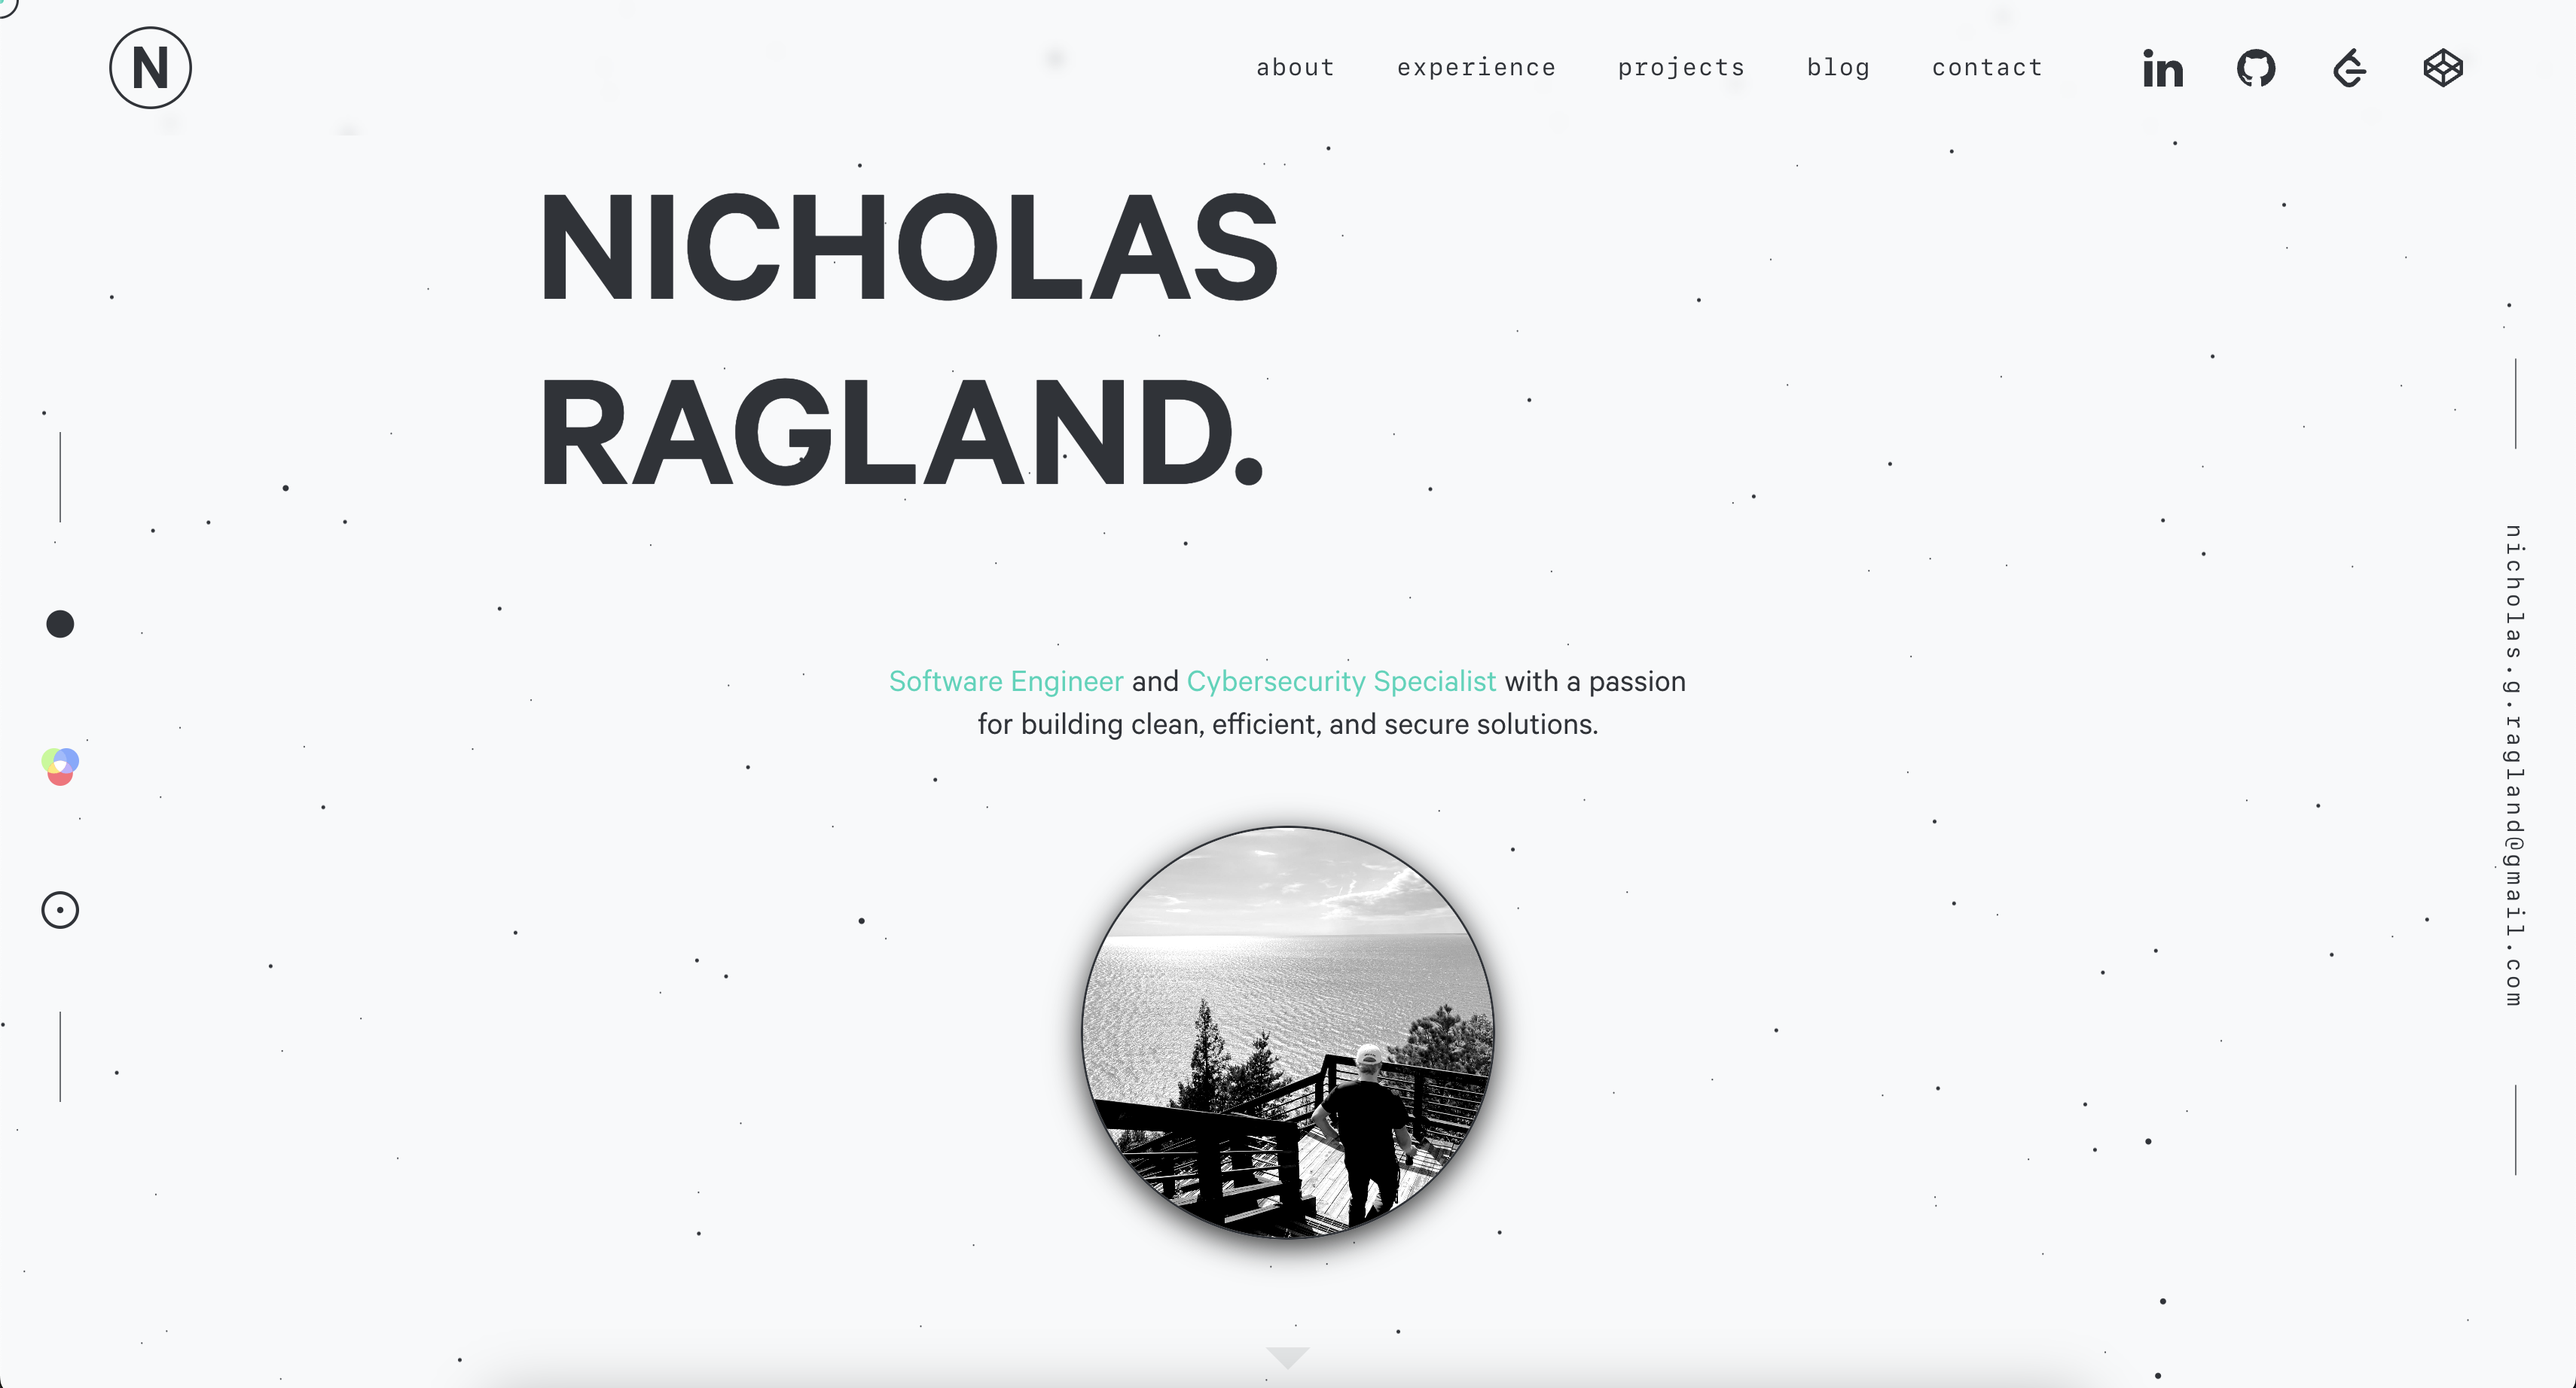
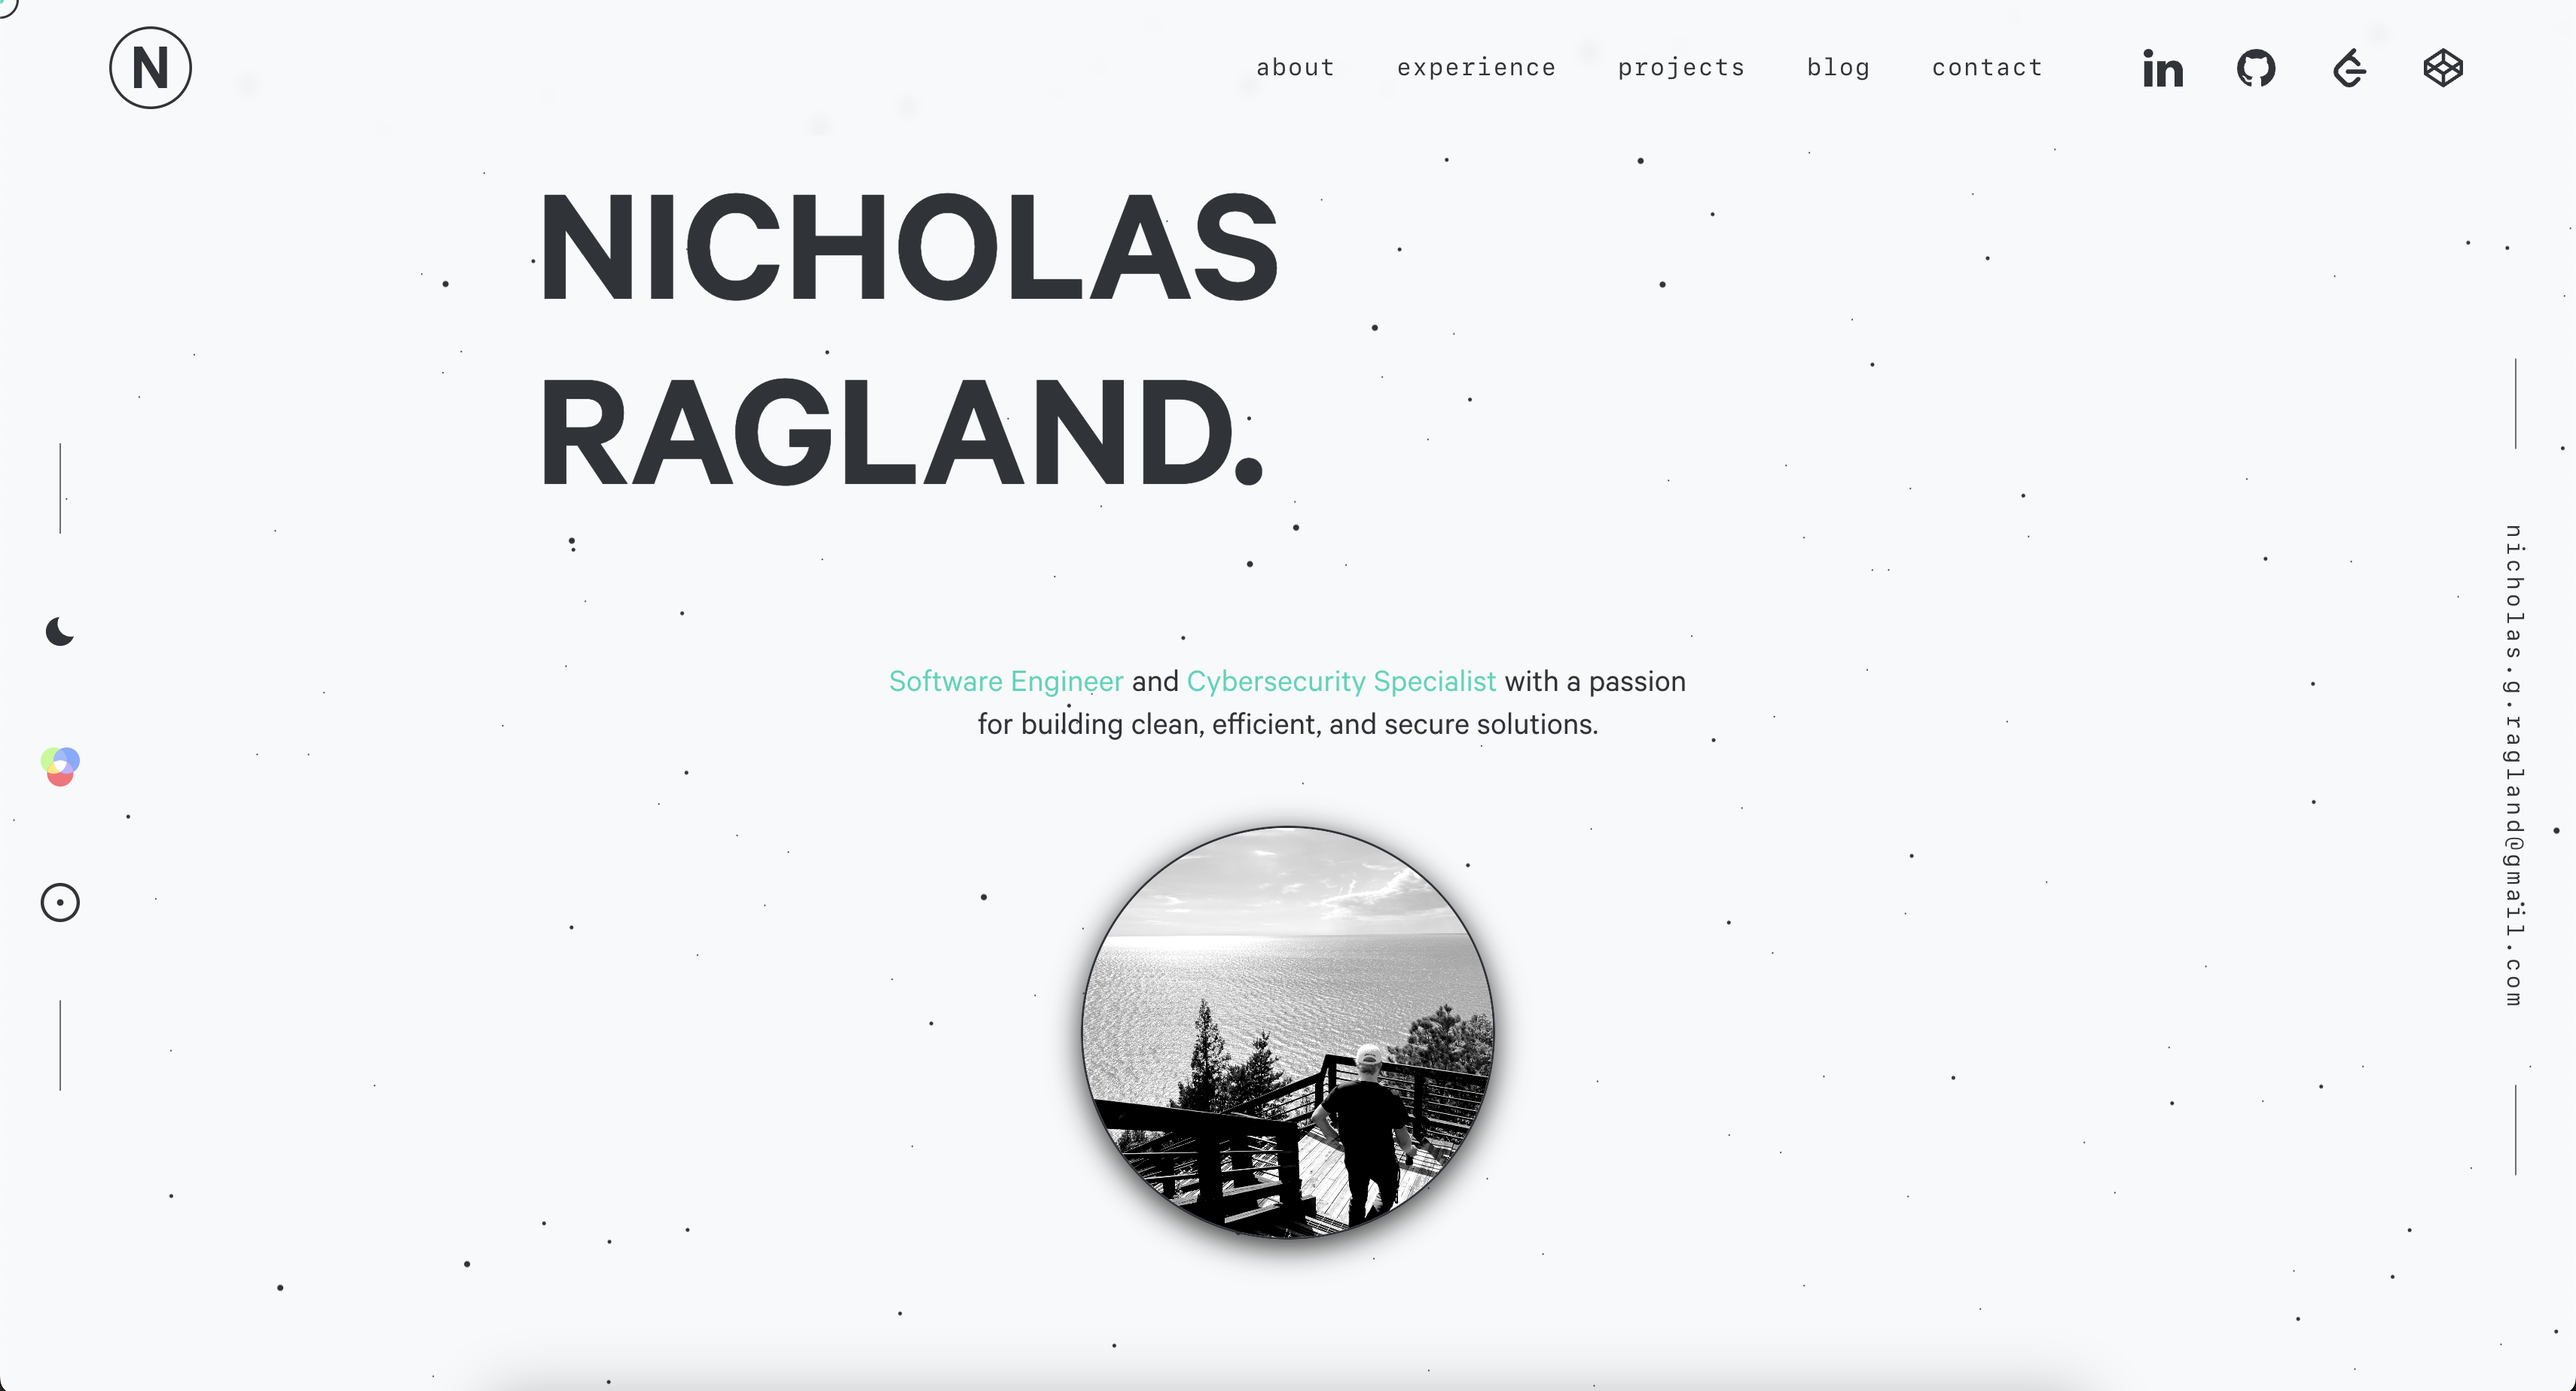
fixd darkmode toggle svg transform

diff --git a/src/components/options.js b/src/components/options.js
@@ -18,46 +18,41 @@ const fadeInLeft = keyframes`
   }
 `;
 
-const StyledOptionsList = styled.ul`
+const StyledOptionsContainer = styled.div`
   display: flex;
   flex-direction: column;
   align-items: center;
   margin: 0;
   padding: 0;
-  list-style: none;
   animation: ${fadeInLeft} 1s ease-out;
 
-  li {
-    margin: 10px 0;
+  button {
+    display: flex;
+    align-items: center;
+    justify-content: center;
+    width: 50px;
+    height: 50px;
+    margin: 20px 0;
+    background-color: transparent;
+    border: none;
+    color: var(--options-icon-color);
+    cursor: pointer;
+    transition:
+      color 0.3s,
+      transform 0.75s;
 
-    button {
-      position: relative;
-      z-index: 10;
-      padding: 12.5px;
-      background-color: transparent;
-      border: none;
-      color: var(--options-icon-color);
-      cursor: pointer;
+    svg {
+      width: 26px;
+      height: 26px;
+      transition:
+        transform 0.75s,
+        color 0.3s;
+    }
 
-      &:hover,
-      &:focus {
-        transform: translateY(-5px);
-        color: var(--options-icon-hover-color);
-      }
-
-      &:hover svg {
-        color: var(--green);
-      }
-
-      svg {
-        width: 50px;
-        height: 50px;
-        color: var(--options-icon-color);
-        transition:
-          fill 0.3s,
-          color 0.3s,
-          transform 0.75s;
-      }
+    &:hover,
+    &:focus {
+      transform: translateY(-5px);
+      color: var(--options-icon-hover-color);
     }
   }
 `;
@@ -81,35 +76,38 @@ const Options = ({ isHome, onToggleCursor }) => {
 
   return (
     <Side isHome={isHome} orientation="left">
-      <StyledOptionsList>
-        <li>
-          <button
-            type="button"
-            title="Toggle theme"
-            onClick={handleThemeToggle}
-            className={`theme-toggle ${isDarkMode ? '' : 'theme-toggle--toggled'}`}
-            aria-label="Toggle theme"
-          >
-            <Icon name="light" />
-          </button>
-        </li>
-        <li>
-          <button
-            type="button"
-            title="Toggle color wave effect"
-            onClick={handleColorToggle}
-            className={`color-toggle ${isColorMode ? 'color-toggle--active' : ''}`}
-            aria-label="Toggle color wave effect"
-          >
-            <Icon name="color" />
-          </button>
-        </li>
-        <li>
-          <button onClick={onToggleCursor} aria-label="Toggle Cursor">
-            <Icon name="cursor" />
-          </button>
-        </li>
-      </StyledOptionsList>
+      <StyledOptionsContainer>
+        {/* Theme */}
+        <button
+          type="button"
+          title="Toggle theme"
+          onClick={handleThemeToggle}
+          className={`theme-toggle ${isDarkMode ? '' : 'theme-toggle--toggled'}`}
+          aria-label="Toggle theme"
+        >
+          <Icon name="light" />
+        </button>
+
+        {/* Color Wave */}
+        <button
+          type="button"
+          title="Toggle color wave effect"
+          onClick={handleColorToggle}
+          className={`color-toggle ${isColorMode ? 'color-toggle--active' : ''}`}
+          aria-label="Toggle color wave effect"
+        >
+          <Icon name="color" />
+        </button>
+
+        {/* Cursor */}
+        <button
+          type="button"
+          onClick={onToggleCursor}
+          aria-label="Toggle Cursor"
+        >
+          <Icon name="cursor" />
+        </button>
+      </StyledOptionsContainer>
     </Side>
   );
 };

diff --git a/src/components/icons/light.js b/src/components/icons/light.js
@@ -1,4 +1,3 @@
-/* https://toggles.dev/expand */
 import React from 'react';
 
 const IconLight = (props) => (
@@ -8,23 +7,16 @@ const IconLight = (props) => (
     width="1em"
     height="1em"
     fill="currentColor"
-    class="theme-toggle__around"
+    class="theme-toggle__expand"
     viewBox="0 0 32 32"
     {...props}
   >
-    <clipPath id="theme-toggle__around__cutout">
-      <path d="M0 0h42v30a1 1 0 00-16 13H0Z" />
+    <clipPath id="theme-toggle__expand__cutout">
+      <path d="M0-11h25a1 1 0 0017 13v30H0Z" />
     </clipPath>
-    <g clip-path="url(#theme-toggle__around__cutout)">
+    <g clip-path="url(#theme-toggle__expand__cutout)">
       <circle cx="16" cy="16" r="8.4" />
-      <g>
-        <circle cx="16" cy="3.3" r="2.3" />
-        <circle cx="27" cy="9.7" r="2.3" />
-        <circle cx="27" cy="22.3" r="2.3" />
-        <circle cx="16" cy="28.7" r="2.3" />
-        <circle cx="5" cy="22.3" r="2.3" />
-        <circle cx="5" cy="9.7" r="2.3" />
-      </g>
+      <path d="M18.3 3.2c0 1.3-1 2.3-2.3 2.3s-2.3-1-2.3-2.3S14.7.9 16 .9s2.3 1 2.3 2.3zm-4.6 25.6c0-1.3 1-2.3 2.3-2.3s2.3 1 2.3 2.3-1 2.3-2.3 2.3-2.3-1-2.3-2.3zm15.1-10.5c-1.3 0-2.3-1-2.3-2.3s1-2.3 2.3-2.3 2.3 1 2.3 2.3-1 2.3-2.3 2.3zM3.2 13.7c1.3 0 2.3 1 2.3 2.3s-1 2.3-2.3 2.3S.9 17.3.9 16s1-2.3 2.3-2.3zm5.8-7C9 7.9 7.9 9 6.7 9S4.4 8 4.4 6.7s1-2.3 2.3-2.3S9 5.4 9 6.7zm16.3 21c-1.3 0-2.3-1-2.3-2.3s1-2.3 2.3-2.3 2.3 1 2.3 2.3-1 2.3-2.3 2.3zm2.4-21c0 1.3-1 2.3-2.3 2.3S23 7.9 23 6.7s1-2.3 2.3-2.3 2.4 1 2.4 2.3zM6.7 23C8 23 9 24 9 25.3s-1 2.3-2.3 2.3-2.3-1-2.3-2.3 1-2.3 2.3-2.3z" />
     </g>
   </svg>
 );

diff --git a/src/components/icons/light-mobile.js b/src/components/icons/light-mobile.js
@@ -1,0 +1,31 @@
+import React from 'react';
+
+const IconLightMobile = (props) => (
+  <svg
+    xmlns="http://www.w3.org/2000/svg"
+    aria-hidden="true"
+    width="1em"
+    height="1em"
+    fill="currentColor"
+    class="theme-toggle__around"
+    viewBox="0 0 32 32"
+    {...props}
+  >
+    <clipPath id="theme-toggle__around__cutout">
+      <path d="M0 0h42v30a1 1 0 00-16 13H0Z" />
+    </clipPath>
+    <g clip-path="url(#theme-toggle__around__cutout)">
+      <circle cx="16" cy="16" r="8.4" />
+      <g>
+        <circle cx="16" cy="3.3" r="2.3" />
+        <circle cx="27" cy="9.7" r="2.3" />
+        <circle cx="27" cy="22.3" r="2.3" />
+        <circle cx="16" cy="28.7" r="2.3" />
+        <circle cx="5" cy="22.3" r="2.3" />
+        <circle cx="5" cy="9.7" r="2.3" />
+      </g>
+    </g>
+  </svg>
+);
+
+export default IconLightMobile;

diff --git a/src/components/head.js b/src/components/head.js
@@ -79,6 +79,11 @@ const Head = ({ title, description, image }) => {
       {/* 'expand.min.css' - replace for other styles: https://toggles.dev/ */}
       <link
         rel="stylesheet"
+        href="https://cdn.jsdelivr.net/npm/theme-toggles@4.10.1/css/expand.min.css"
+      />
+      {/* 'around.min.css' - replace for other styles: https://toggles.dev/ */}
+      <link
+        rel="stylesheet"
         href="https://cdn.jsdelivr.net/npm/theme-toggles@4.10.1/css/around.min.css"
       />
     </Helmet>

diff --git a/src/utils/light.js b/src/utils/light.js
@@ -49,6 +49,16 @@ const injectGlobalStyles = () => {
         --theme-toggle-duration: 500ms; 
       }
 
+      /* desktop */
+      .theme-toggle__expand {
+        transition: transform var(--theme-toggle-duration);
+      }
+
+      .theme-toggle--toggled .theme-toggle__expand {
+        transform: rotate(360deg);
+      }
+
+      /* mobile */
       .theme-toggle__around {
         transition: transform var(--theme-toggle-duration);
       }

diff --git a/src/components/icons/index.js b/src/components/icons/index.js
@@ -11,6 +11,7 @@ export { default as IconGitHub } from './github';
 export { default as IconInstagram } from './instagram';
 export { default as IconLeetCode } from './leetcode';
 export { default as IconLight } from './light';
+export { default as IconLightMobile } from './light-mobile';
 export { default as IconLinkedin } from './linkedin';
 export { default as IconLogo } from './logo';
 export { default as IconPlayStore } from './playstore';

diff --git a/src/components/icons/icon.js b/src/components/icons/icon.js
@@ -14,6 +14,7 @@ import {
   IconInstagram,
   IconLeetCode,
   IconLight,
+  IconLightMobile,
   IconLinkedin,
   IconLogo,
   IconPlayStore,
@@ -36,6 +37,7 @@ const iconMap = {
   instagram: IconInstagram,
   leetcode: IconLeetCode,
   light: IconLight,
+  lightmobile: IconLightMobile,
   linkedin: IconLinkedin,
   logo: IconLogo,
   playstore: IconPlayStore,

diff --git a/src/components/menu.js b/src/components/menu.js
@@ -57,7 +57,7 @@ const Menu = () => {
           className={`theme-toggle ${isDarkMode ? '' : 'theme-toggle--toggled'}`}
           aria-label="Toggle theme"
         >
-          <Icon name="light" />
+          <Icon name="lightMobile" />
         </StyledThemeToggle>
 
         {/* Hamburger Menu Button */}

diff --git a/src/components/sections/projects.js b/src/components/sections/projects.js
@@ -69,8 +69,7 @@ const StyledProject = styled.li`
     transition: var(--transition);
     overflow: hidden;
     flex-grow: 1;
-    height: ${({ maxHeight }) =>
-      maxHeight ? `${maxHeight}px` : 'auto'}; 
+    height: ${({ maxHeight }) => (maxHeight ? `${maxHeight}px` : 'auto')};
   }
 
   .project-top {

diff --git a/src/components/side.js b/src/components/side.js
@@ -20,7 +20,7 @@ const StyledSideElement = styled.div`
   &:after {
     content: '';
     display: block;
-    width: 1px;
+    width: 1.25px;
     height: 0;
     background-color: var(--options-border-color);
     opacity: 0.7;

diff --git a/README.md b/README.md
@@ -27,6 +27,7 @@
 
 <a href="https://www.nicholasragland.com/" target="_blank"> <img alt="Demo GIF" src="/static/assets/demo.gif" width="49%" /> </a>
 <a href="https://www.nicholasragland.com/" target="_blank"> <img alt="Demo GIF" src="/static/assets/demo_light.gif" width="49%" /> </a>
+
 </div>
 
 > [!IMPORTANT]
